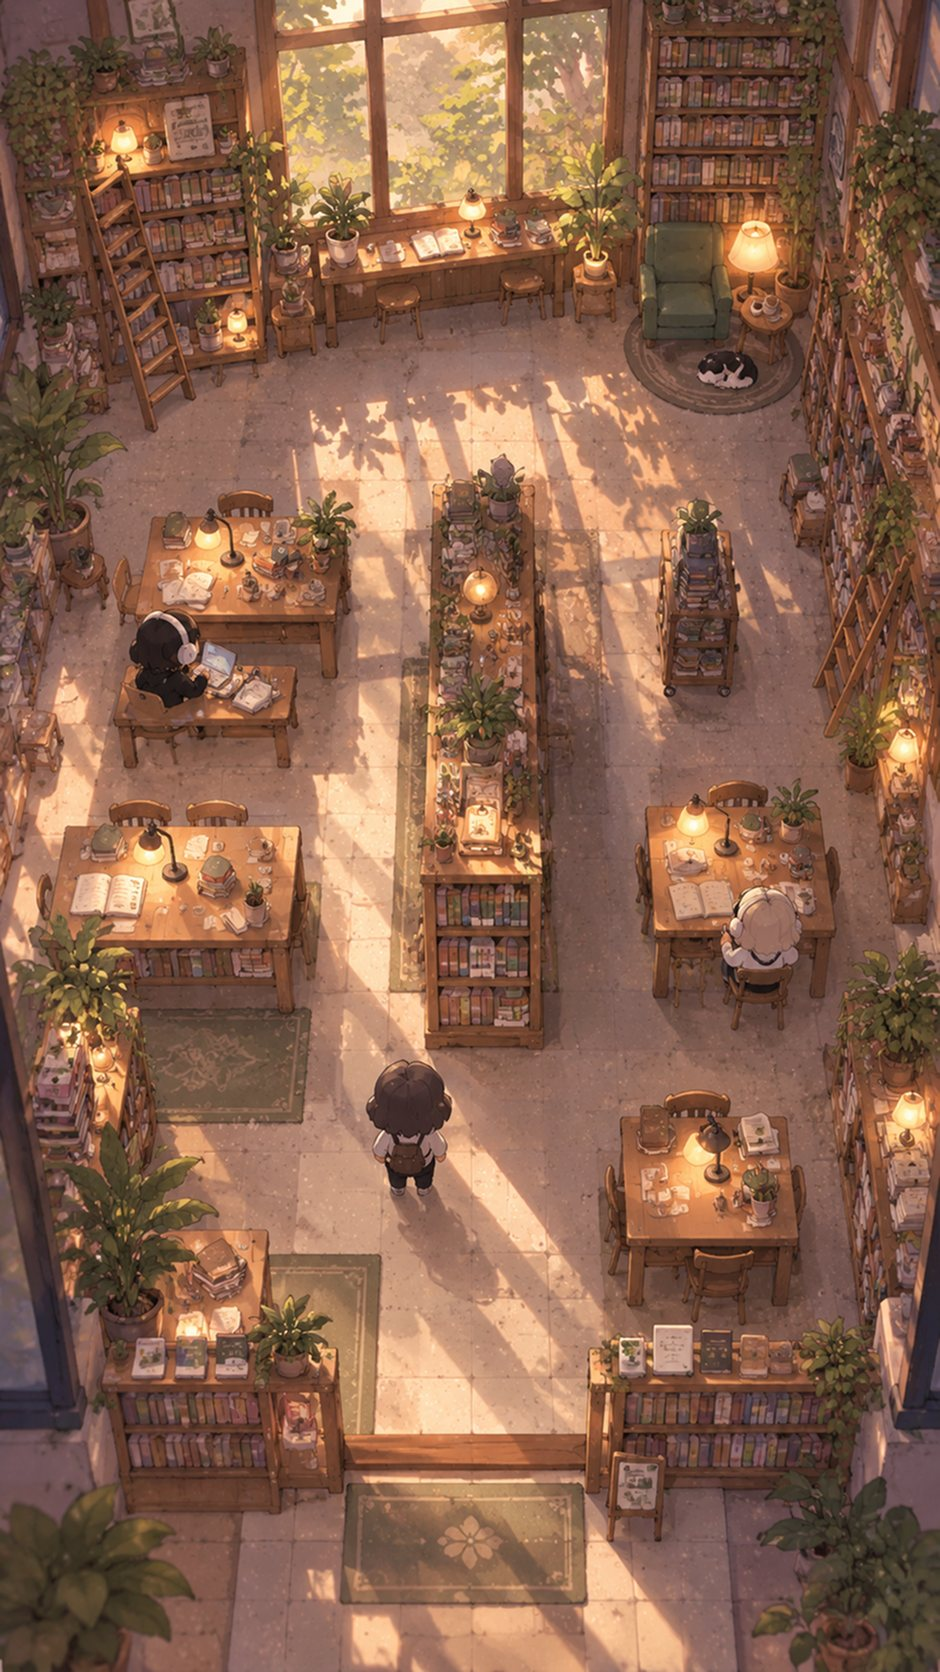
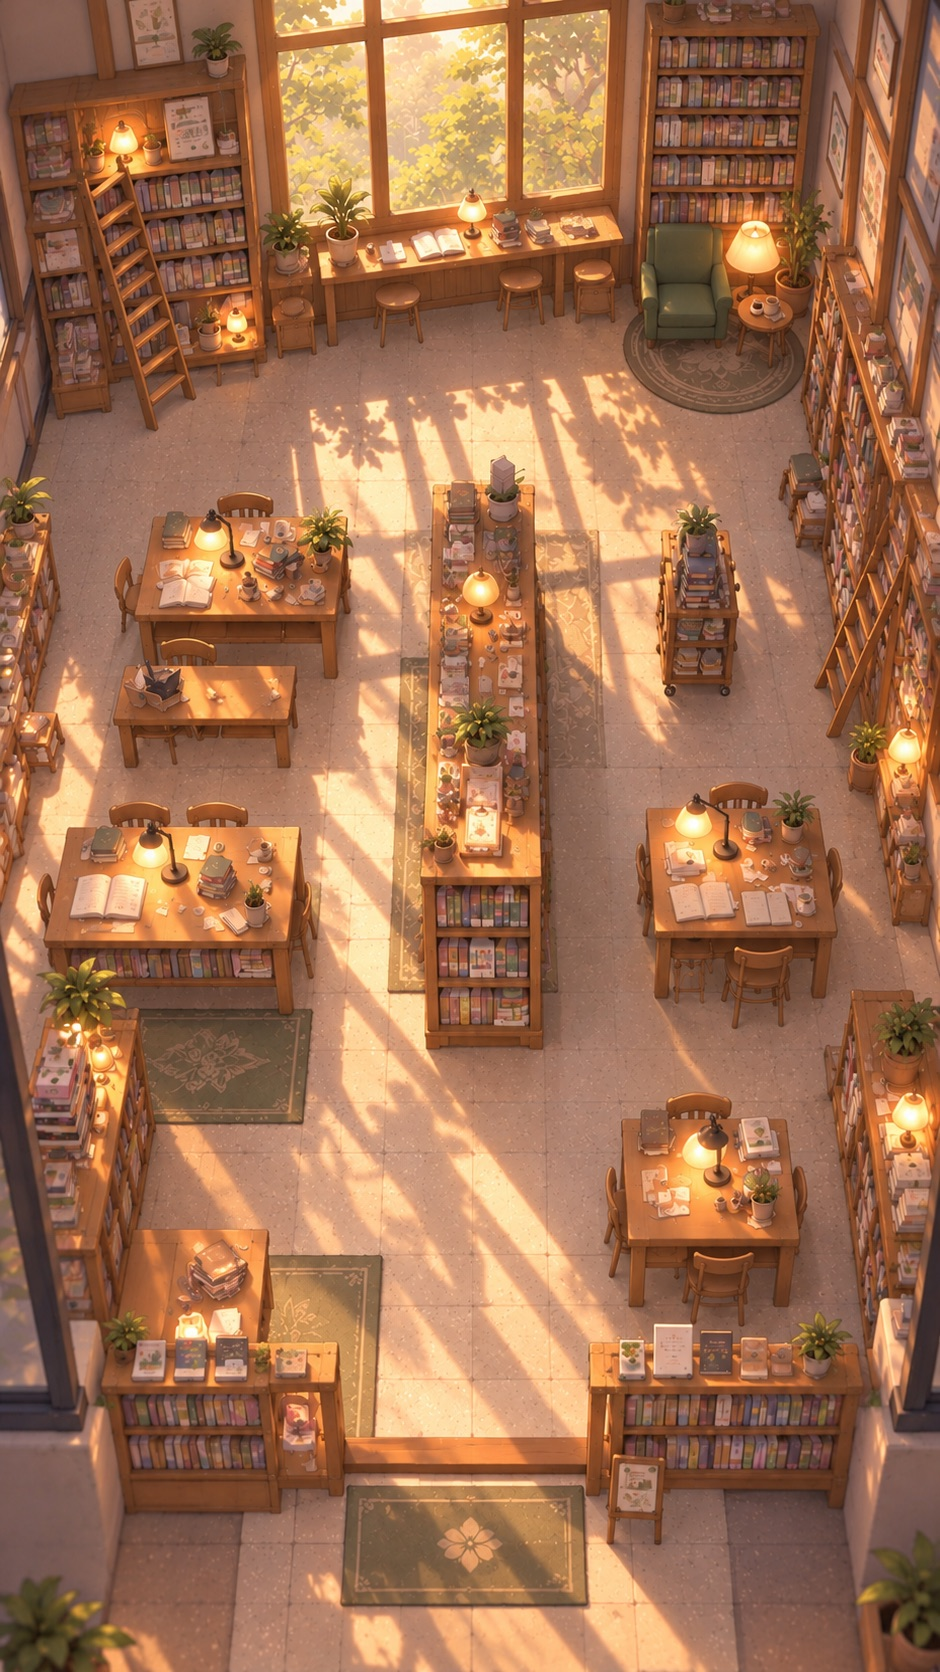
update library topdown background

diff --git a/src/screens/LibraryScreen.tsx b/src/screens/LibraryScreen.tsx
@@ -31,7 +31,6 @@ const LIBRARY: WorldConfig = {
     [650, 520, 745, 705], // Book cart
     [635, 800, 845, 1005], [610, 1110, 810, 1315], // Two desks on the right
     [0, 1030, 165, 1250], [0, 1225, 348, 1672], [583, 1335, 941, 1672], // Plant, bookshelves either side of the entrance
-    [372, 1085, 445, 1195], // Person standing in the aisle (background art)
     [800, 345, 941, 1335], // Right-wall bookshelf
   ],
   start: { x: 466, y: 1520 },
@@ -55,7 +54,6 @@ const LIBRARY_LINES = [
   'this lamp light is lovely', 'reading the same line for the 5th time lol', 'just shelved a thought',
 ];
 const LIBRARY_REPLIES = ['(quietly) hi', 'shh :)', 'good luck', 'nice, keep going', 'same here', 'ooh what are you writing?', 'mm-hm', 'you got this'];
-const BAKED_PEOPLE = 3; // Number of people already drawn in the background (included in the head count)
 
 const day = (iso: string) => new Date(iso).toLocaleDateString('en-US', { month: 'short', day: 'numeric' });
 
@@ -82,7 +80,7 @@ export function LibraryScreen({ characterId, onBack, onChangeFriends, onSoundSet
   const friends = useMemo(() => getCompanions(character.id).filter((c) => c.space === 'library'), [character.id]);
   const npcs = useMemo<WorldNpc[]>(() => friends.map((f) => ({ id: f.id, name: f.name, tag: f.doing, character: f.character, scale: f.character.premium ? 1.3 : undefined })), [friends]);
 
-  // With no friends, the people in the picture talk (chat lines only, no speech bubbles)
+  // With no friends, unseen visitors talk (chat lines only, no speech bubbles)
   const chatter = useMemo(
     () => ({ place: 'the library', speakers: [...friends.map((f) => ({ id: f.id, name: f.name })), { name: 'Noa' }, { name: 'Eli' }], lines: LIBRARY_LINES, replies: LIBRARY_REPLIES }),
     [friends],
@@ -245,8 +243,8 @@ export function LibraryScreen({ characterId, onBack, onChangeFriends, onSoundSet
         </button>
         <span className={hud.chip}>Library</span>
         <div className={hud.topActions}>
-          <button type="button" className={hud.count} onClick={() => setFriendsOpen(true)} aria-label={`${npcs.length + BAKED_PEOPLE + 1} people here. Friends`}>
-            <PeopleIcon /> {npcs.length + BAKED_PEOPLE + 1}
+          <button type="button" className={hud.count} onClick={() => setFriendsOpen(true)} aria-label={`${npcs.length + 1} people here. Friends`}>
+            <PeopleIcon /> {npcs.length + 1}
           </button>
           <BackgroundSoundButton dark onClick={onSoundSettings} />
         </div>
